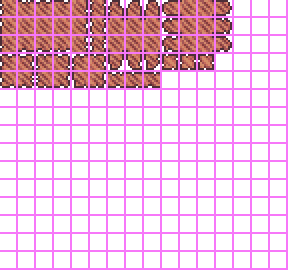
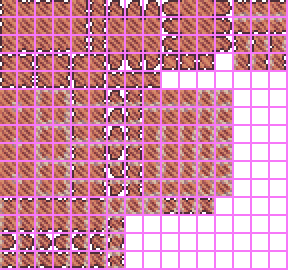
light pyracotta, pegmatite bricks, rename diorite in localization

diff --git a/Content/Tiles/DeepDesert/ReinforcedPegmatiteBricks.cs b/Content/Tiles/DeepDesert/ReinforcedPegmatiteBricks.cs
@@ -1,0 +1,40 @@
+using Terraria.ID;
+using Terraria;
+using Terraria.ModLoader;
+using ITD.Particles;
+using System.Linq;
+using ITD.Particles.Misc;
+using Terraria.Audio;
+
+namespace ITD.Content.Tiles.DeepDesert
+{
+    public class ReinforcedPegmatiteBricks : ModTile
+    {
+        public override void SetStaticDefaults()
+        {
+            Main.tileSolid[Type] = true;
+            Main.tileBlockLight[Type] = true;
+
+            MinPick = 500;
+            HitSound = SoundID.Tink;
+            DustType = DustID.Sandstorm;
+
+            AddMapEntry(new Color(199, 108, 91));
+        }
+        public override void ModifyFrameMerge(int i, int j, ref int up, ref int down, ref int left, ref int right, ref int upLeft, ref int upRight, ref int downLeft, ref int downRight)
+        {
+            WorldGen.TileMergeAttempt(-2, ModContent.TileType<PegmatiteTile>(), ref up, ref down, ref left, ref right, ref upLeft, ref upRight, ref downLeft, ref downRight);
+        }
+        public override void KillTile(int i, int j, ref bool fail, ref bool effectOnly, ref bool noItem)
+        {
+            Point p = new(i, j);
+            // here we check if the particle hasn't been mined (fail), and if there isn't already a particle that's linked to this tile
+            if (fail && !ParticleSystem.Instance.particles.Any(prt => prt.tag is Point pnt && pnt == p))
+            {
+                SoundEngine.PlaySound(SoundID.Item15, p.ToWorldCoordinates());
+                ITDParticle part = ParticleSystem.NewParticle<ProtectedTileParticle>(p.ToWorldCoordinates(), Vector2.Zero, 0f);
+                part.tag = p;
+            }
+        }
+    }
+}

diff --git a/Content/Tiles/DeepDesert/DioriteTile.cs b/Content/Tiles/DeepDesert/DioriteTile.cs
@@ -10,14 +10,20 @@ namespace ITD.Content.Tiles.DeepDesert
     {
         public override void SetStaticDefaults()
         {
+            TileID.Sets.ChecksForMerge[Type] = true;
             Main.tileSolid[Type] = true;
             Main.tileBlockLight[Type] = true;
+            Main.tileMerge[ModContent.TileType<LightPyracottaTile>()][Type] = true;
 
             MinPick = 55;
             HitSound = SoundID.Tink;
             DustType = DustID.Sandstorm;
 
             AddMapEntry(new Color(199, 108, 91));
+        }
+        public override void ModifyFrameMerge(int i, int j, ref int up, ref int down, ref int left, ref int right, ref int upLeft, ref int upRight, ref int downLeft, ref int downRight)
+        {
+            WorldGen.TileMergeAttempt(-2, ModContent.TileType<LightPyracottaTile>(), ref up, ref down, ref left, ref right, ref upLeft, ref upRight, ref downLeft, ref downRight);
         }
     }
 }

diff --git a/Content/World/WorldGenSystem.cs b/Content/World/WorldGenSystem.cs
@@ -13,6 +13,7 @@ using ITD.Content.Tiles.Misc;
 using ITD.Utilities;
 using Terraria.ObjectData;
 using ITD.Particles.CosJel;
+using ITD.Content.Tiles.DeepDesert;
 
 namespace ITD.Content.World
 {
@@ -65,6 +66,12 @@ namespace ITD.Content.World
             //ITDParticle newParticle = ParticleSystem.NewParticle<TestParticle>(Main.MouseWorld, Main.rand.NextVector2Unit(-MathHelper.PiOver2 - MathHelper.PiOver4, MathHelper.PiOver2) * 6f, 0f);
             
             //Point pos = Main.MouseWorld.ToTileCoordinates();
+            /*
+            Tile t = Framing.GetTileSafely(pos);
+            t.HasTile = true;
+            t.TileType = (ushort)ModContent.TileType<ReinforcedPegmatiteBricks>();
+            WorldGen.TileFrame(pos.X, pos.Y);
+            */
             //WorldGenHelpers.Procedural.DigQuadTunnel(pos, pos + new Point(100, 50), 5, 9, 3);
             /*
             Point dirSize = new(

diff --git a/Particles/ITDParticle.cs b/Particles/ITDParticle.cs
@@ -40,6 +40,10 @@ namespace ITD.Particles
         public float scale = 1f;
         public float spawnScale;
         public float opacity = 1f;
+        /// <summary>
+        /// Should this particle's sprite be drawn additively? (only applies to particles that don't override regular drawing
+        /// </summary>
+        public bool additive = false;
         public ParticleDrawCanvas canvas;
 
         /// <summary>
@@ -119,6 +123,8 @@ namespace ITD.Particles
             if (origin != null)
                 data.Item2 = origin.Value;
             Color drawColor = color == null ? GetAlpha() : color.Value;
+            if (additive)
+                drawColor = drawColor with { A = 0 };
             float drawRotation = rotation == null ? this.rotation : 0f;
             float drawScale = scale == null ? this.scale : 1f;
 

diff --git a/Particles/Misc/ProtectedTileParticle.cs b/Particles/Misc/ProtectedTileParticle.cs
@@ -1,0 +1,24 @@
+using ITD.Utilities.EntityAnim;
+using System;
+using System.Collections.Generic;
+using System.Linq;
+using System.Text;
+using System.Threading.Tasks;
+
+namespace ITD.Particles.Misc
+{
+    public class ProtectedTileParticle : ITDParticle
+    {
+        public override void SetDefaults()
+        {
+            timeLeft = 30;
+            scale = 0.1f;
+            additive = true;
+        }
+        public override void AI()
+        {
+            scale = spawnScale + (EasingFunctions.OutQuad(ProgressZeroToOne) * 0.5f);
+            opacity = ProgressOneToZero;
+        }
+    }
+}

diff --git a/Content/Items/Placeable/LightPyracotta.cs b/Content/Items/Placeable/LightPyracotta.cs
@@ -3,16 +3,15 @@ using Terraria.ModLoader;
 
 namespace ITD.Content.Items.Placeable
 {
-    public class Diorite : ModItem
+    public class LightPyracotta : ModItem
     {
         public override void SetStaticDefaults()
         {
             Item.ResearchUnlockCount = 100;
         }
-
         public override void SetDefaults()
         {
-            Item.DefaultToPlaceableTile(ModContent.TileType<DioriteTile>());
+            Item.DefaultToPlaceableTile(ModContent.TileType<LightPyracottaTile>());
         }
     }
 }

diff --git a/Content/Tiles/DeepDesert/LightPyracottaTile.cs b/Content/Tiles/DeepDesert/LightPyracottaTile.cs
@@ -1,0 +1,21 @@
+using Terraria.ID;
+using Terraria;
+using Terraria.ModLoader;
+
+namespace ITD.Content.Tiles.DeepDesert
+{
+    public class LightPyracottaTile : ModTile
+    {
+        public override void SetStaticDefaults()
+        {
+            Main.tileSolid[Type] = true;
+            Main.tileBlockLight[Type] = true;
+
+            MinPick = 55;
+            HitSound = SoundID.Tink;
+            DustType = DustID.Sandstorm;
+
+            AddMapEntry(new Color(212, 193, 167));
+        }
+    }
+}
